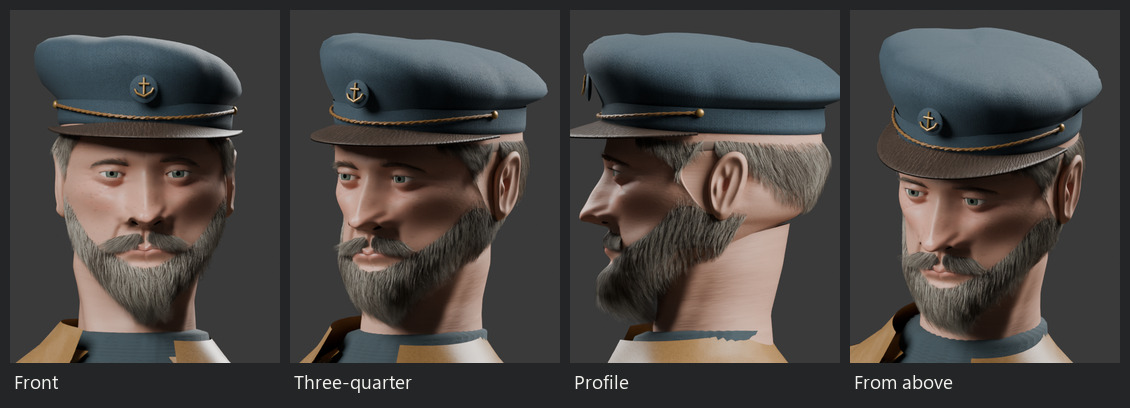
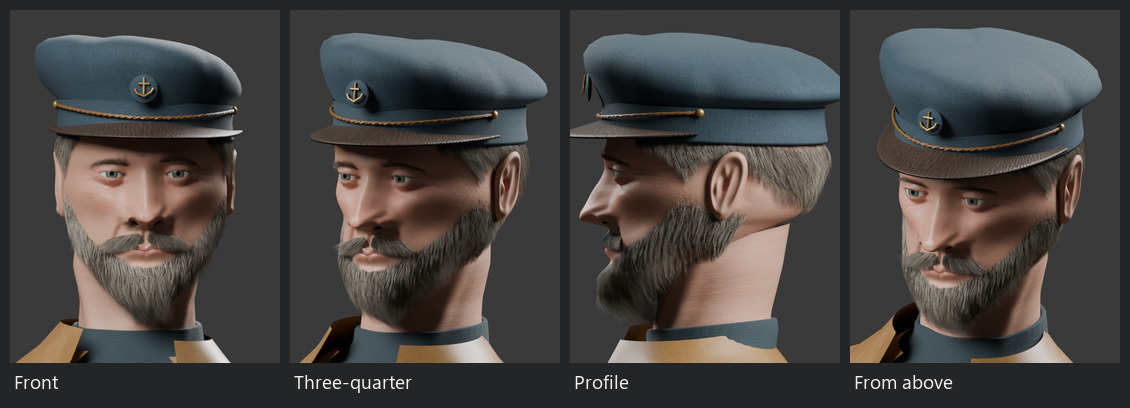
Verify the fitted cap, nape and sleeves in Drift and in both game packages

diff --git a/docs/guides/drift-keeper.md b/docs/guides/drift-keeper.md
@@ -80,6 +80,9 @@ hairs and 270 lashes. In the left blink the left lash roots move a median
 the starting positions. The beard gains darker roots and silver patches. Its
 edge along the cheek is still sharply drawn in profile. Light from above
 catches the cloth of the cap and the grain on the leather peak separately.
+An earlier profile exposed a step at the temple where the eyelid support
+reached the side of the head. Restricting it to the orbit let the hair follow
+a continuous surface. The band sits over the upper roots.
 
 ## Stance and work clothes
 
@@ -97,7 +100,9 @@ the uniform. At full wave one edge at the bare armpit stretches by 22.1 mm.
 
 The original coat had a closed front and a separate sleeve that peaked when
 the arm rose. Three clothing studies changed the cut. The upper sleeve joins
-an oval armhole with a short underarm edge and a long outer edge. Two open
+an oval armhole with a short underarm edge and a long outer edge. Matching
+the joint weights on both sides of the elbow closed a 29.49 mm gap in the
+bent right sleeve. The gansey's rolled neck follows the shape of the nape. Two open
 fronts overlap beneath the buttons, then roll back to show the gansey. Creases
 radiate from the waist fastening and welted pockets. The boot shafts turn down
 over the tucked trousers. The curved cap crown drops over one temple. Wool,
@@ -122,10 +127,10 @@ regular and the centre of the rounded mouth retains a pronounced notch.
 
 ![The three body outlines and the differences between the first and last tier](../images/drift-keeper/silhouette.jpg)
 
-The three body meshes contain 168,824, 47,620 and 20,070 triangles.
-The corresponding 520 × 680 orthographic renders cover 72,265, 71,980 and
-71,276 pixels at an alpha threshold of one half. Intersection divided by
-union is 99.52% for tiers 0 and 1, and 98.57% for tiers 0 and 2. The
+The three body meshes contain 169,320, 47,868 and 20,202 triangles.
+The corresponding 520 × 680 orthographic renders cover 72,437, 72,150 and
+71,437 pixels at an alpha threshold of one half. Intersection divided by
+union is 99.52% for tiers 0 and 1, and 98.56% for tiers 0 and 2. The
 fourth panel marks pixels present only in tier 0 in amber and pixels present
 only in tier 2 in blue. These measurements include the shared head attachments.
 In the game the second tier starts beyond 18 m and the third beyond 78 m.
@@ -156,7 +161,9 @@ the voyage with the boat camera.
 From 2.5 m above the water the stack hides the door on some bearings. These
 approaches use 225° at 30 m and 240° at 150 m, measured from world +X
 towards +Z. Moving the keeper out of frame and back changed and restored
-15 of 35 sampled entity IDs at 30 m and 11 of 35 at 150 m. At the longer
+13 of 35 sampled entity IDs at 30 m and 14 of 35 at 150 m. At 30 m the
+repeat frame also changed more colour pixels than the removal frame, so the
+entity IDs distinguish the keeper from moving water and lighting. At the longer
 distance, the coat occupies just a few pixels against the doorway.
 
 ![Keeper from sea level at 30 m and 150 m with keeper-on and keeper-off crops](../images/drift-keeper/approach.jpg)
@@ -164,8 +171,8 @@ distance, the coat occupies just a few pixels against the doorway.
 ![Face in OpenGL and Vulkan across Forward, Forward+ and Deferred](../images/drift-keeper/render-paths.jpg)
 
 Tower lighting brings out a hard shadow under the cheekbone. In OpenGL
-Deferred, hiding the groom changed 89,746 pixels at native resolution,
-86,602 with 4× MSAA and 45,568 with Temporal Quality upscale. Each count
+Deferred, hiding the groom changed 88,508 pixels at native resolution,
+85,425 with 4× MSAA and 45,302 with Temporal Quality upscale. Each count
 excludes pixels that moved by less than 4/255 or at most twice the
 repeat-frame difference.
 
